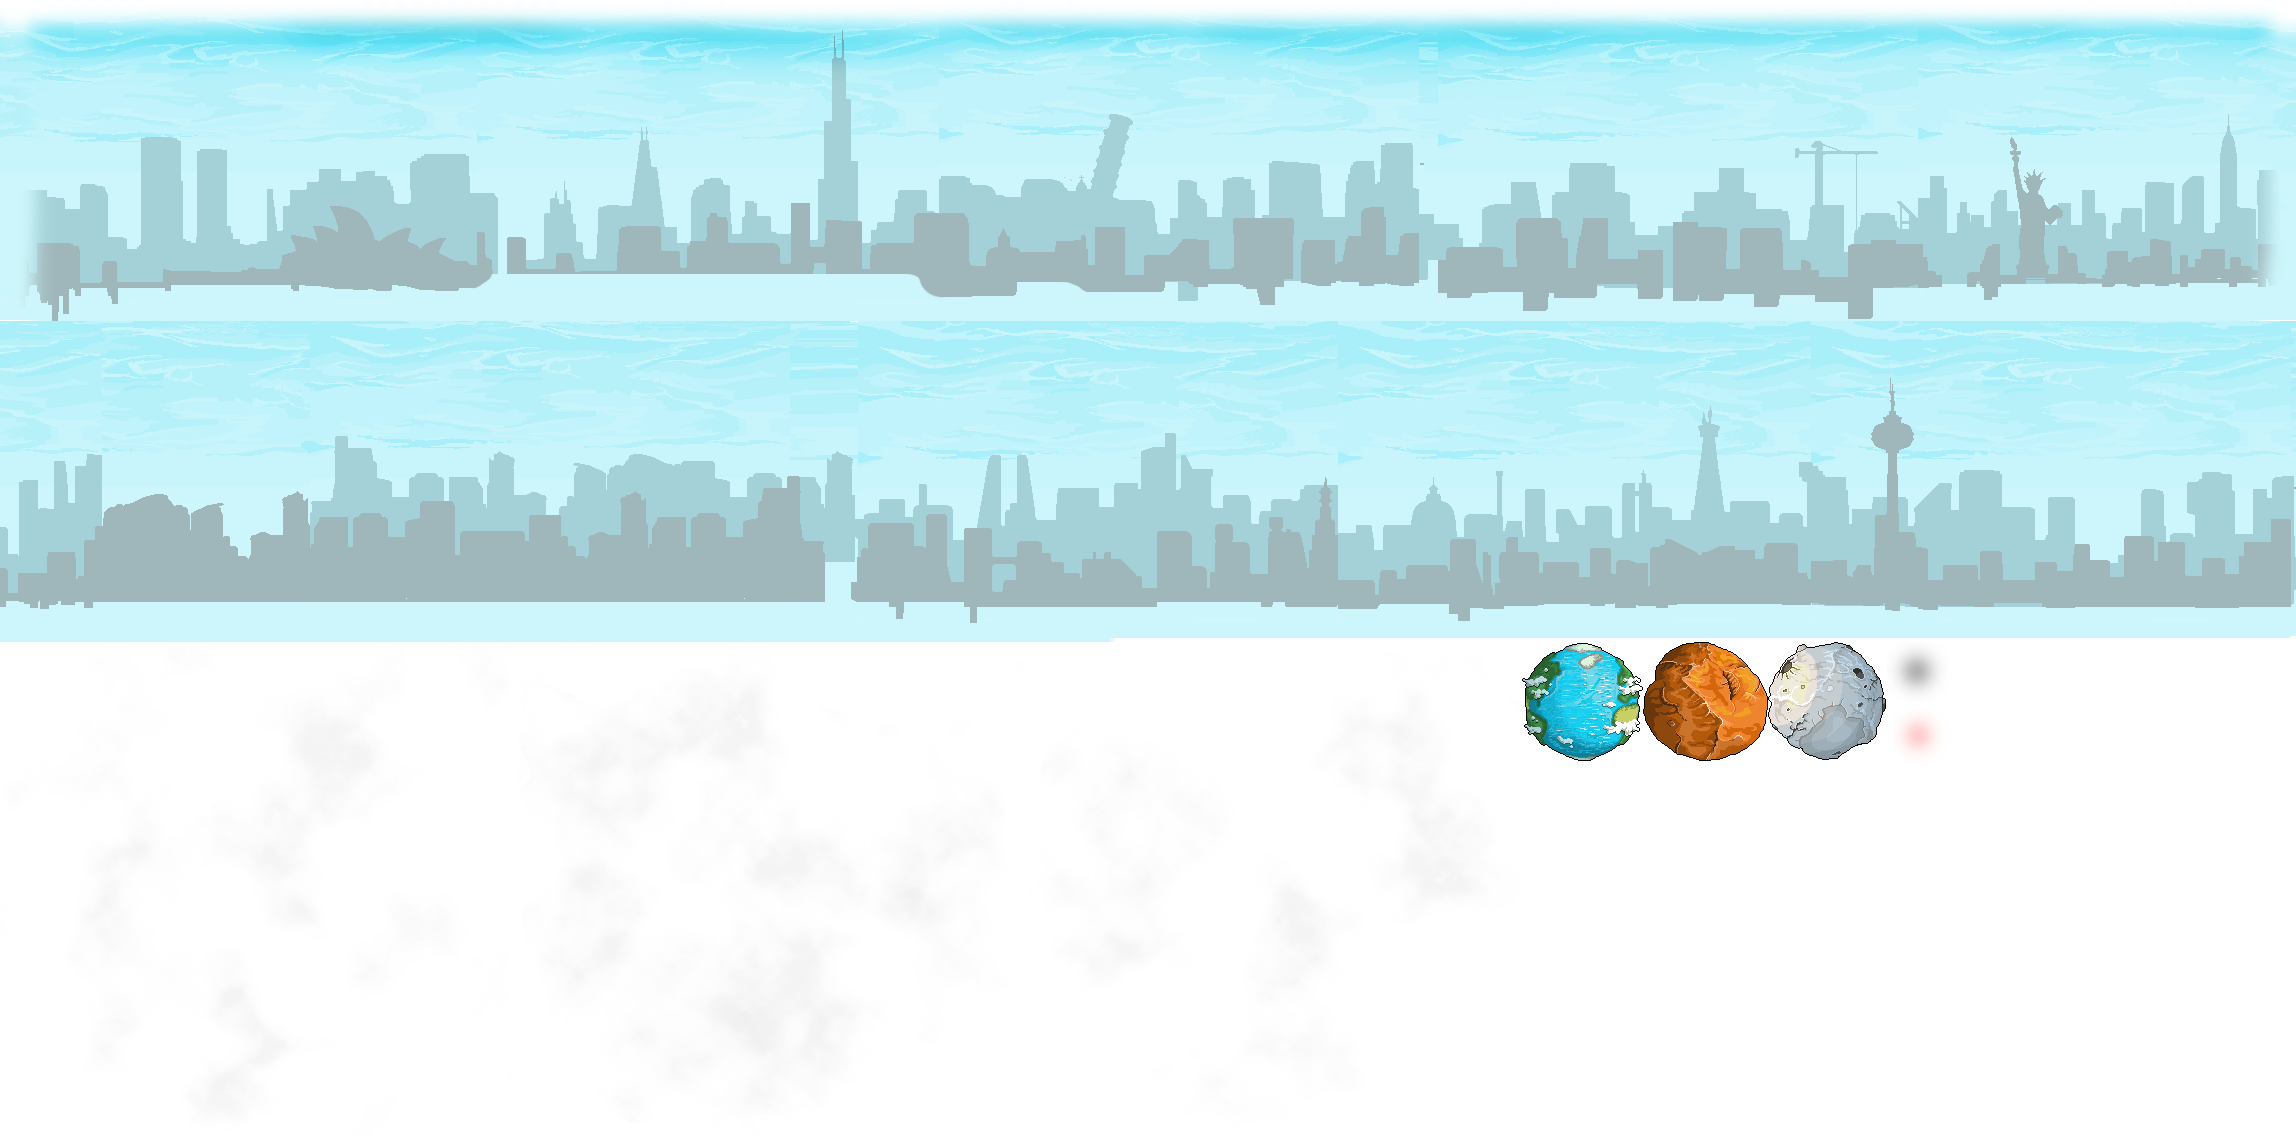
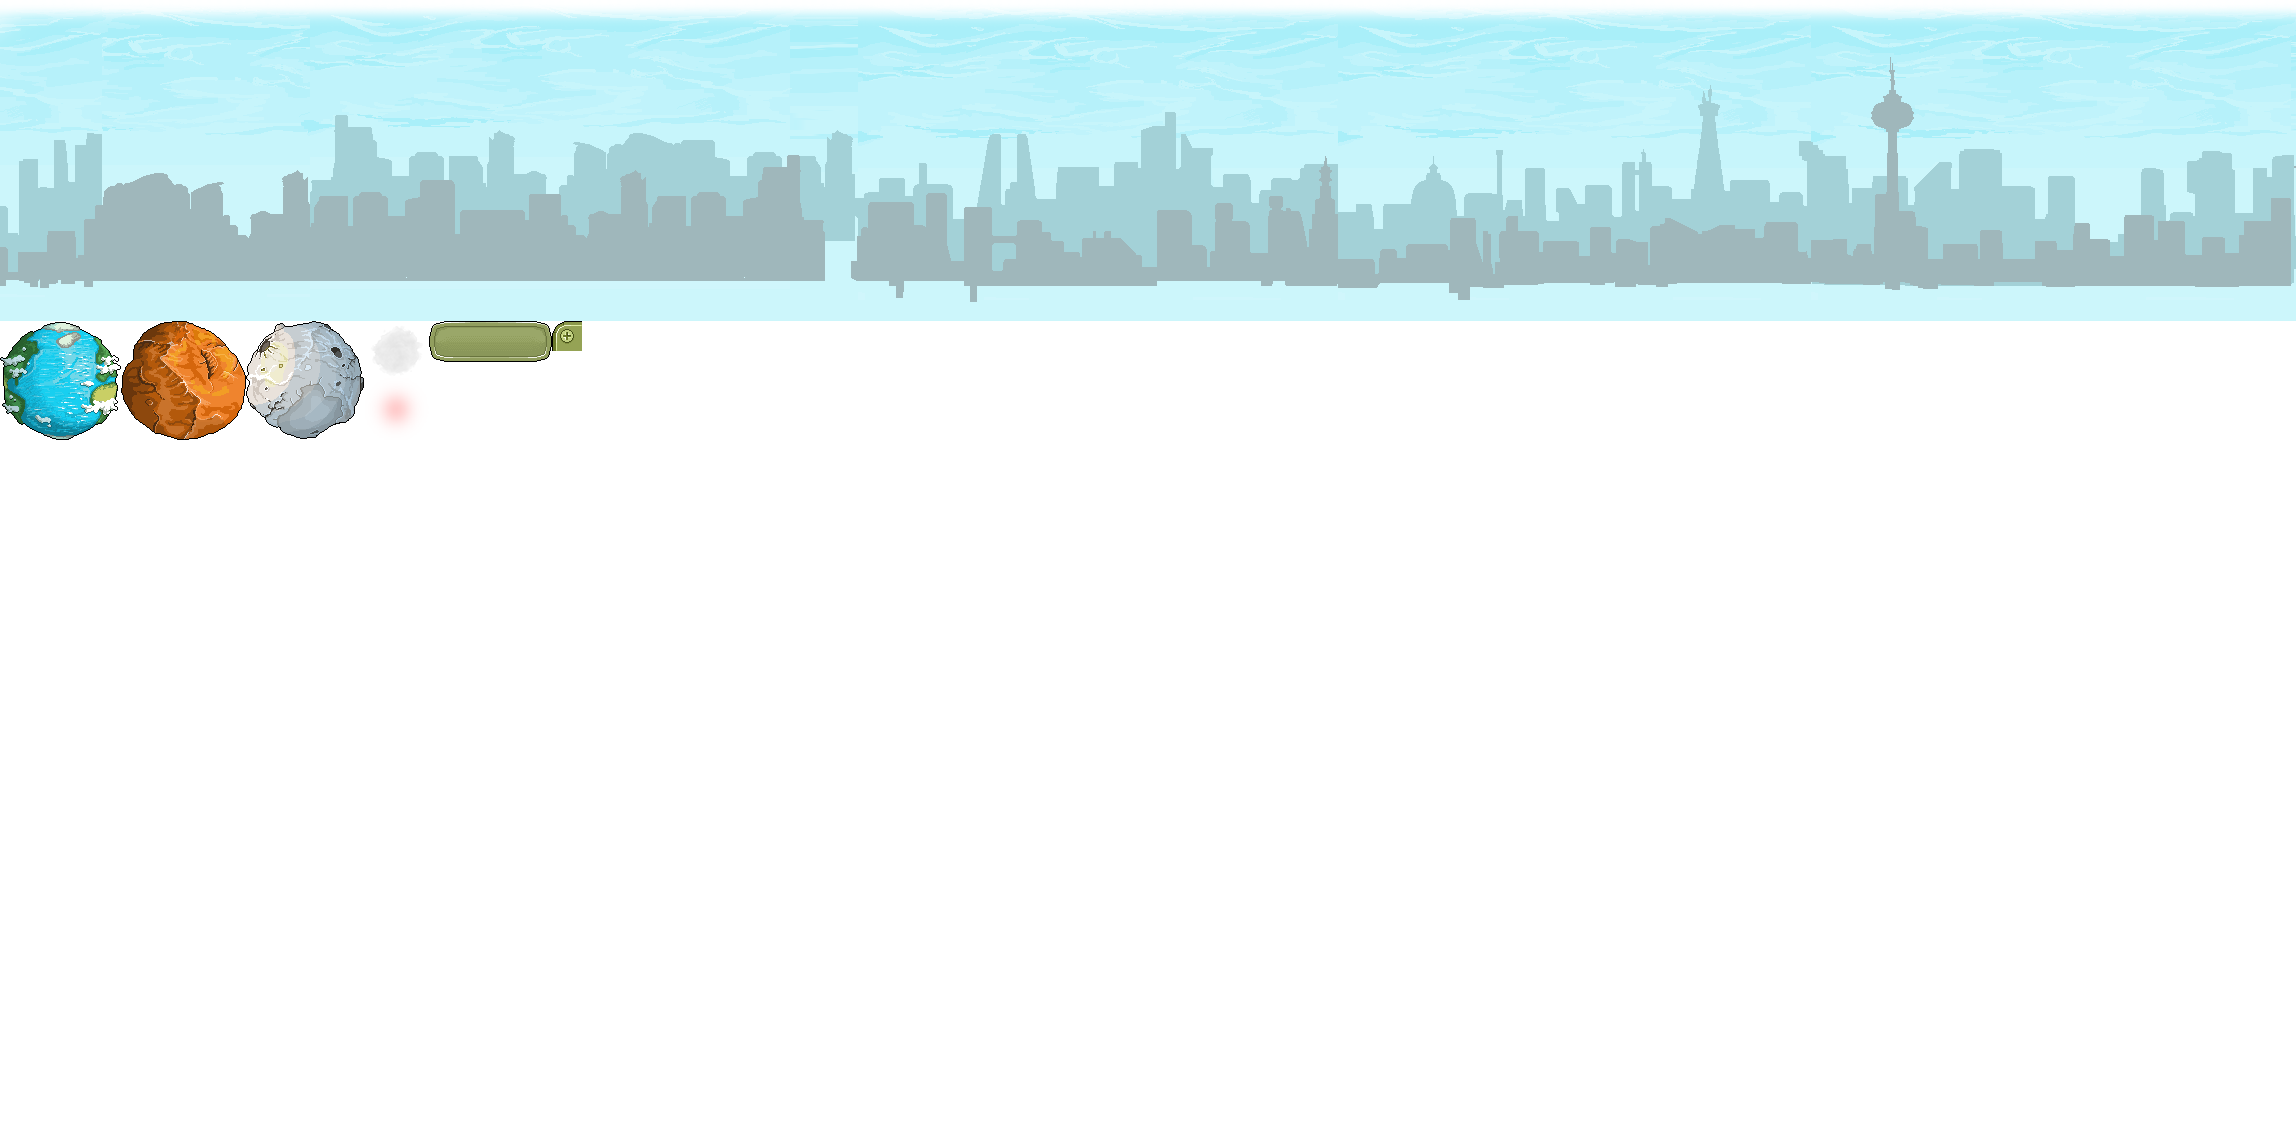
Main menu Window+ Change Sky Color

diff --git a/DarkJetpack/Objects/Player.cs b/DarkJetpack/Objects/Player.cs
@@ -30,12 +30,13 @@ namespace DarkJetpack {
             Position = Vector2.Zero;
             Rotation = 0;
             Speed = new Vector2(1, 1);
-            pmS = new ParticleMashine(20, Terrain, new Rectangle(1887, 642, 64, 64));
-            pmF = new ParticleMashine(20, Terrain, new Rectangle(1887, 702, 64, 64));
+            pmS = new ParticleMashine(50, Terrain, new Rectangle(365, 321, 64, 64));
+            pmF = new ParticleMashine(20, Terrain, new Rectangle(365, 381, 64, 64));
         }
 
         public void Update(GameTime gametime, Vector2 direction, Viewport viewport) {
             float elapsed = (float)gametime.ElapsedGameTime.TotalSeconds;
+            direction.Y = -direction.Y;
 
             //Store the viewport
             Viewport = viewport;
@@ -60,32 +61,36 @@ namespace DarkJetpack {
 
             #region Particle Mashine
             Random r = new Random();
-            for (int i = 0; i < pmF.count; i++) {
+            for (int i = 0; i < pmS.count; i++) {
                 ParticleMashine.Particle ps = pmS.particles[i];
-                ParticleMashine.Particle pf = pmF.particles[i];
                 if (ps.l <= 0.1) {
-                    ps.p.X = 50 + Viewport.Width / 2 - Texture.Width * scale / 3f + (float)r.NextDouble() * Texture.Width * scale / 3f;
+                    ps.p.X = 30 + Viewport.Width / 2 - Viewport.Width / 18 + (float)r.NextDouble() * Viewport.Width / 16;
                     ps.p.Y = Viewport.Height / 2 + 80;
                     ps.s = 16 + (int)(32 * r.NextDouble());
-                    ps.c = new Color(Color.White, 100 + (int)(155 * r.NextDouble()));
-                    ps.l = 16;
-
-                    pf.p.X = 40 + Viewport.Width / 2 - Texture.Width * scale / 3f + (float)r.NextDouble() * Texture.Width * scale / 4f;
-                    pf.p.Y = Viewport.Height / 2 + 100;
-                    pf.s = 10 + (int)(20 * r.NextDouble());
-                    pf.c = new Color(Color.Orange, 25 + (int)(55 * r.NextDouble()));
-                    pf.l = 8;
+                    ps.c = new Color(Color.LightGray, 155 + (int)(100 * r.NextDouble()));
+                    ps.l = 8;
                 }
 
                 ps.p.X += ps.v.X; ps.p.Y += ps.v.Y;
-                ps.v.X = -3f + 6 * (float)r.NextDouble() - direction.X * 3 * (float)r.NextDouble();
-                ps.v.Y = 2 - direction.Y * (float)r.NextDouble();
+                ps.v.X = -10 + 20 * (float)r.NextDouble() - 10 * direction.X * (float)r.NextDouble();
+                ps.v.Y = 5 - direction.Y * (float)r.NextDouble();
                 ps.l -= (float)r.NextDouble();
                 pmS.particles[i] = ps;
+            }
+
+            for (int i = 0; i < pmF.count; i++) {
+                ParticleMashine.Particle pf = pmF.particles[i];
+                if (pf.l <= 0.1) {
+                    pf.p.X = 30 + Viewport.Width / 2 - Viewport.Width / 18 + (float)r.NextDouble() * Viewport.Width / 16;
+                    pf.p.Y = Viewport.Height / 2 + 100;
+                    pf.s = 10 + (int)(20 * r.NextDouble());
+                    pf.c = new Color(Color.Red, 55 + (int)(200 * r.NextDouble()));
+                    pf.l = 8;
+                }
 
                 pf.p.X += pf.v.X; pf.p.Y += pf.v.Y;
-                pf.v.X = -3f + 6 * (float)r.NextDouble() - direction.X * 3 * (float)r.NextDouble();
-                pf.v.Y = 2 - direction.Y * (float)r.NextDouble();
+                pf.v.X = -5 + 10 * (float)r.NextDouble() - 5 * direction.X * (float)r.NextDouble();
+                pf.v.Y = 3 - direction.Y * (float)r.NextDouble();
                 pf.l -= (float)r.NextDouble();
                 pmF.particles[i] = pf;
             }

diff --git a/DarkJetpack/Layouts/GameLayout.cs b/DarkJetpack/Layouts/GameLayout.cs
@@ -6,7 +6,6 @@ using Microsoft.Xna.Framework.Input;
 
 namespace DarkJetpack {
     class GameLayout : Layout {
-        private Texture2D Terrain;
         List<Background> Backgrounds;
         Player player;
         int score;
@@ -19,13 +18,12 @@ namespace DarkJetpack {
             oldKbState = Keyboard.GetState();
 
             Backgrounds = new List<Background>();
-            Terrain = game.Content.Load<Texture2D>(@"Terrain");
             Backgrounds.Add(new Background(game.Content.Load<Texture2D>(@"Clouds1"), new Vector2(300, 300), 0.6f));
             Backgrounds.Add(new Background(game.Content.Load<Texture2D>(@"Clouds2"), new Vector2(500, 500), 0.8f));
             Backgrounds.Add(new Background(game.Content.Load<Texture2D>(@"Clouds3"), new Vector2(700, 700), 1.1f));
             scoreFont = game.Content.Load<SpriteFont>(@"ScoreFont");
-            player = new Player(game, Terrain);
-            cities = new Cities(Terrain);
+            player = new Player(game, game.Terrain);
+            cities = new Cities(game.Terrain);
         }
 
         public override void onUnLoad() {
@@ -40,11 +38,10 @@ namespace DarkJetpack {
             } else if (oldKbState.IsKeyDown(Keys.Space)) {
 
             }
-
             Vector2 direction = Vector2.Zero;
             if (kbState.IsKeyDown(Keys.Up))
                 direction = new Vector2(0, -1);
-            else if (kbState.IsKeyDown(Keys.Down) && player.Position.Y <= 0) {
+            else if (kbState.IsKeyDown(Keys.Down) && player.Position.Y >= 0) {
                 direction = new Vector2(0, 1);
             }
 
@@ -53,20 +50,24 @@ namespace DarkJetpack {
             else if (kbState.IsKeyDown(Keys.Right))
                 direction += new Vector2(1, 0);
 
+            if (kbState.IsKeyDown(Keys.LeftShift))
+                direction *= 3;
+
             player.Update(gameTime, direction, viewport);
-            score = Math.Max(score, -(int)player.Position.Y);
+            score = Math.Max(score, (int)player.Position.Y);
 
             #region Background
             foreach (Background bg in Backgrounds)
-                bg.Update(gameTime, direction, viewport, (1 + player.Position.Y / 5));
+                bg.Update(gameTime, direction, viewport, (1 - player.Position.Y / 5));
 
             cities.Update(gameTime, direction, viewport);
-            cities.Offset.Y = -player.Position.Y * 50;
-
-            game.backColor = new Color(
-                (int)(76 * (1 + player.Position.Y / 15)),
-                (int)(220 * (1 + player.Position.Y / 15)),
-                (int)(241 * (1 + player.Position.Y / 15)));
+            cities.Offset.Y = player.Position.Y * 50;
+            if (player.Position.Y <= 15) {
+                game.backColor = new Color(
+                    (int)(169 + (-114 * player.Position.Y / 15)),//55
+                    (int)(239 + (-184 * player.Position.Y / 15)),//55
+                    (int)(249 + (-99 * player.Position.Y / 15)));//150
+            }
             #endregion
 
         }
@@ -75,8 +76,6 @@ namespace DarkJetpack {
             foreach (Background bg in Backgrounds)
                 bg.Draw(spriteBatch);
             cities.Draw(spriteBatch);
-            DarkJetpack.DrawLine(spriteBatch, Color.BlueViolet, new Vector2(0, viewport.Height / 2), new Vector2(viewport.Width, viewport.Height / 2));
-            DarkJetpack.DrawLine(spriteBatch, Color.YellowGreen, new Vector2(viewport.Width / 2, 0), new Vector2(viewport.Width / 2, viewport.Height));
             spriteBatch.DrawString(scoreFont, score + "", new Vector2(50, 50), Color.Red);
             player.Draw(spriteBatch);
 

diff --git a/DarkJetpack/Layouts/Layout.cs b/DarkJetpack/Layouts/Layout.cs
@@ -11,10 +11,11 @@ namespace DarkJetpack {
         protected MouseState oldMsState;
         protected KeyboardState oldKbState;
         List<Button> buttons;
-
+        public Point windowBounds;
         public Layout(DarkJetpack _game) {
             game = _game;
             buttons = new List<Button>();
+            windowBounds = new Point(game.GraphicsDevice.Viewport.Width, game.GraphicsDevice.Viewport.Height);
             onLoad();
         }
         public virtual void onLoad() { }
@@ -75,8 +76,41 @@ namespace DarkJetpack {
 
             }
             public virtual void onDraw(SpriteBatch spriteBatch, GameTime gameTime) {
-                spriteBatch.Draw(t, b, tb, is_active ? Color.Red : Color.White);
+                spriteBatch.Draw(t, b, tb, is_active ? Color.LightGray : Color.White);
             }
         }
+
+        public class Window {
+
+            public Rectangle b;
+            Texture2D t;
+
+            public Window(Rectangle bounds, Texture2D texture) {
+                b = bounds;
+                t = texture;
+            }
+            public virtual void onDraw(SpriteBatch spriteBatch, GameTime gameTime) {
+                spriteBatch.End();
+                spriteBatch.Begin(SpriteSortMode.Deferred, BlendState.AlphaBlend, SamplerState.PointClamp, null, null);
+                //Top
+                spriteBatch.Draw(t, new Vector2(b.Left, b.Top), null, new Rectangle(552, 321, 29, 29), null, 0, null, Color.White);
+                spriteBatch.Draw(t, new Rectangle(b.Left + 29, b.Top, b.Width - 3 * 29, 29), new Rectangle(581, 321, 1, 29), Color.White);
+                spriteBatch.Draw(t, new Vector2(b.Left + b.Width - 29, b.Top), null, new Rectangle(552, 321, 29, 29), null, MathHelper.PiOver2, null, Color.White);
+
+                //Center
+                spriteBatch.Draw(t, null, new Rectangle(b.Left + 29, b.Top + 29, b.Height - 3 * 29, 29), new Rectangle(581, 321, 1, 29), new Vector2(1, 29), -MathHelper.PiOver2, null, Color.White);
+                spriteBatch.Draw(DarkJetpack.baseTexture, new Rectangle(b.Left + 29, b.Top + 29, b.Width - 3 * 29, b.Height - 3 * 29), new Color(149, 163, 85));
+                spriteBatch.Draw(t, null, new Rectangle(b.Left + b.Width - 29, b.Top + 29, b.Height - 3 * 29, 29), new Rectangle(581, 321, 1, 29), new Vector2(0, 0), MathHelper.PiOver2, null, Color.White);
+
+                //Bottom
+                spriteBatch.Draw(t, new Vector2(b.Left, b.Top + b.Height - 29), null, new Rectangle(552, 321, 29, 29), Vector2.Zero, -MathHelper.PiOver2, null, Color.White);
+                spriteBatch.Draw(t, null, new Rectangle(b.Left + 29, b.Top + b.Height - 2 * 29, b.Width - 3 * 29, 29), new Rectangle(581, 321, 1, 29), new Vector2(1, 29), MathHelper.Pi, null, Color.White);
+                spriteBatch.Draw(t, new Vector2(b.Left + b.Width - 29, b.Top + b.Height - 29), null, new Rectangle(552, 321, 29, 29), null, MathHelper.Pi, null, Color.White);
+
+                spriteBatch.End();
+                spriteBatch.Begin(SpriteSortMode.Deferred, BlendState.AlphaBlend, SamplerState.AnisotropicWrap, null, null);
+            }
+        }
+
     }
 }

diff --git a/DarkJetpack/DarkJetpack.cs b/DarkJetpack/DarkJetpack.cs
@@ -11,6 +11,7 @@ namespace DarkJetpack {
         Layout curLayout;
         public Color backColor;
         Stack<Layout> layoutBackStack;
+        public Texture2D Terrain;
 
         public DarkJetpack() : base() {
             IsMouseVisible = true;
@@ -19,11 +20,8 @@ namespace DarkJetpack {
             layoutBackStack = new Stack<Layout>();
             graphics.PreferredBackBufferWidth = 1280;
             graphics.PreferredBackBufferHeight = 720;
+            Window.Position = new Point(50, 50);
             graphics.ApplyChanges();
-        }
-
-        protected override void Initialize() {
-            base.Initialize();
         }
 
         protected override void LoadContent() {
@@ -31,6 +29,8 @@ namespace DarkJetpack {
 
             baseTexture = new Texture2D(GraphicsDevice, 1, 1);
             baseTexture.SetData(new Color[] { Color.White });
+
+            Terrain = Content.Load<Texture2D>(@"Terrain");
 
             curLayout = new MainMenuLayout(this);
 
@@ -65,9 +65,12 @@ namespace DarkJetpack {
         protected override void Draw(GameTime gameTime) {
             GraphicsDevice.Clear(backColor);
 
-            spriteBatch.Begin(SpriteSortMode.Deferred, BlendState.AlphaBlend, SamplerState.LinearWrap, null, null);
+            spriteBatch.Begin(SpriteSortMode.Deferred, BlendState.AlphaBlend, SamplerState.AnisotropicWrap, null, null);
 
             curLayout.onDraw(spriteBatch, gameTime);
+
+            DrawLine(spriteBatch, Color.BlueViolet, new Vector2(0, GraphicsDevice.Viewport.Height / 2), new Vector2(GraphicsDevice.Viewport.Width, GraphicsDevice.Viewport.Height / 2));
+            DrawLine(spriteBatch, Color.YellowGreen, new Vector2(GraphicsDevice.Viewport.Width / 2, 0), new Vector2(GraphicsDevice.Viewport.Width / 2, GraphicsDevice.Viewport.Height));
             spriteBatch.End();
             base.Draw(gameTime);
         }

diff --git a/DarkJetpack/Layouts/MainMenuLayout.cs b/DarkJetpack/Layouts/MainMenuLayout.cs
@@ -9,13 +9,15 @@ namespace DarkJetpack {
         Texture2D interferenceTexture;
         double lastTime = 0;
         private ParticleMashine particleMashine;
+        Window testw;
         public MainMenuLayout(DarkJetpack _game) : base(_game) {
             particleMashine = new ParticleMashine(50, DarkJetpack.baseTexture, null);
             interferenceTexture = new Texture2D(game.GraphicsDevice, 200, 150);
         }
 
         public override void onLoad() {
-            addButton(new Rectangle(100, 100, 200, 50), DarkJetpack.baseTexture, null, (() => game.changeLayoutTo(new GameLayout(game))));
+            testw = new Window(new Rectangle(100, 100, windowBounds.X - 200, windowBounds.Y - 200), game.Terrain);
+            addButton(new Rectangle(windowBounds.X / 2 - 100, windowBounds.Y - 200, 200, 50), game.Terrain, new Rectangle(429, 321, 123, 41), (() => game.changeLayoutTo(new GameLayout(game))));
 
         }
         public override void onUnLoad() {
@@ -68,8 +70,9 @@ namespace DarkJetpack {
             }
         }
         public override void draw(SpriteBatch spriteBatch, GameTime gameTime) {
+            testw.onDraw(spriteBatch, gameTime);
             particleMashine.draw(spriteBatch);
-            spriteBatch.Draw(interferenceTexture, new Rectangle(200, 200, 200, 150), Color.White);
+            //spriteBatch.Draw(interferenceTexture, new Rectangle(200, 200, 200, 150), Color.White);
         }
     }
 }

diff --git a/DarkJetpack/Objects/Background.cs b/DarkJetpack/Objects/Background.cs
@@ -17,7 +17,7 @@ namespace DarkJetpack {
         private Rectangle Rectangle {
             get { return new Rectangle((int)(Offset.X), (int)(Offset.Y), (int)(Viewport.Width / Zoom), (int)(Viewport.Height / Zoom)); }
         }
-
+            
         public Background(Texture2D texture, Vector2 speed, float zoom) {
             Texture = texture;
             Offset = Vector2.Zero;
